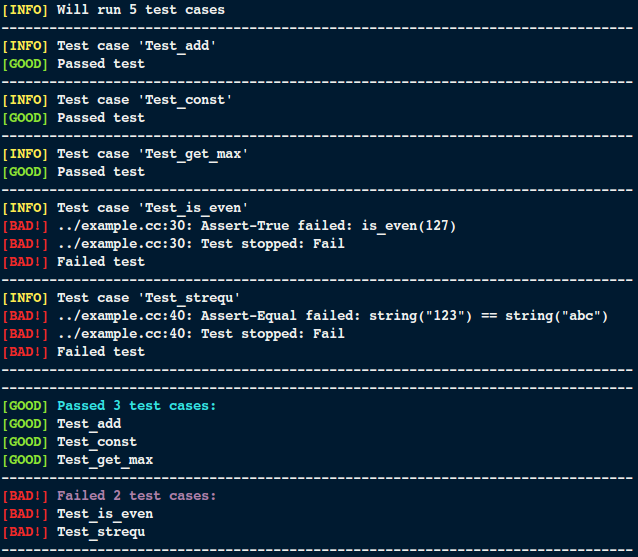
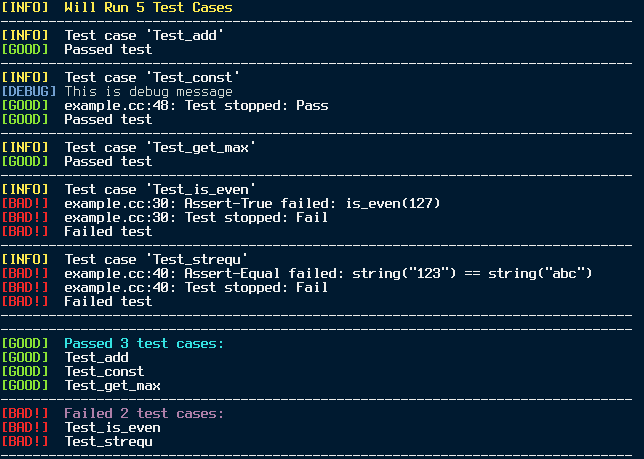
col

Changed region(s): [[0.0, 0.0, 1.0, 1.0]]

diff --git a/mut.h b/mut.h
@@ -12,6 +12,8 @@
 // Linux terminator color code
 #ifndef MUT_COLOR_CODE
 #define MUT_COLOR_CODE
+#define MUT_COLOR_DEBUG  "\033[01;34m"
+#define MUT_COLOR_GRAY0  "\033[00;37m"
 #define MUT_COLOR_GRAY   "\033[01;37m"
 #define MUT_COLOR_GREEN  "\033[01;32m"
 #define MUT_COLOR_RED    "\033[01;31m"
@@ -22,20 +24,25 @@
 
 // Macro for writing to the terminal an INFO-level log
 #ifndef MUT_INFO
-#define MUT_INFO        std::cerr << MUT_COLOR_YELLOW << "[INFO] " << MUT_COLOR_GRAY
+#define MUT_INFO        std::cerr << MUT_COLOR_YELLOW << "[INFO]  " << MUT_COLOR_GRAY
 #define MUT_LOG_INFO    MUT_INFO << __FILE__ << ":" << __LINE__ << ": "
 #endif
 
 // Macro for writing to the terminal a BAD-level log
 #ifndef MUT_BAD
-#define MUT_BAD         std::cerr << MUT_COLOR_RED << "[BAD!] " << MUT_COLOR_GRAY
+#define MUT_BAD         std::cerr << MUT_COLOR_RED << "[BAD!]  " << MUT_COLOR_GRAY
 #define MUT_LOG_BAD     MUT_BAD << __FILE__ << ":" << __LINE__ << ": "
 #endif
 
 // Macro for writing to the terminal a GOOD-level log
 #ifndef MUT_GOOD
-#define MUT_GOOD        std::cerr << MUT_COLOR_GREEN << "[GOOD] " << MUT_COLOR_GRAY
+#define MUT_GOOD        std::cerr << MUT_COLOR_GREEN << "[GOOD]  " << MUT_COLOR_GRAY
 #define MUT_LOG_GOOD    MUT_GOOD << __FILE__ << ":" << __LINE__ << ": "
+#endif
+
+// Macro for writing to the terminal an DEBUG info from tested program
+#ifndef MUT_DEBUG
+#define MUT_DEBUG       std::cerr << MUT_COLOR_DEBUG << "[DEBUG] " << MUT_COLOR_GRAY0
 #endif
 
 #ifndef MUT_LOG_SEP
@@ -73,10 +80,12 @@ public:
     // Run all the registered unit test cases, returns True if all tests pass, false otherwise.
     static bool run()
     {
-        std::vector<std::string> failures, sucesses;
-        MUT_INFO << "Will run " << instance().unit_functions.size() << " test cases" << std::endl;
+        MUT_INFO << MUT_COLOR_YELLOW
+                 << "Will Run " << instance().unit_functions.size() << " Test Cases"
+                 << MUT_COLOR_GRAY << std::endl;
 
-        // Iterate all registered unit tests
+        std::vector<std::string> failures, sucesses;
+        // Starts unit tests
         for (auto& unit : instance().unit_functions) {
             MUT_LOG_SEP;
             MUT_INFO << "Test case '" << unit.first << "'" << std::endl;
@@ -105,7 +114,7 @@ public:
 
         // Output result summary
         if (failures.empty()) {
-            MUT_GOOD << "All tests passed" << std::endl;
+            MUT_GOOD << MUT_COLOR_YELLOW << "All tests passed!" << MUT_COLOR_GRAY << std::endl;
             MUT_LOG_SEP;
             return true;
         }
@@ -226,7 +235,6 @@ protected:
 
 
 #endif  // end MUT_USER_MACROS
-
 
 
 

diff --git a/example.cc b/example.cc
@@ -42,6 +42,7 @@ MICRO_UNIT(Test_strequ)
 
 MICRO_UNIT(Test_const)
 {
+    MUT_DEBUG << "This is debug message" << std::endl;
     ASSERT_FALSE((1024 << 2) == 2048)
     if (float(1.0000000001f) == float(1.0f)) {
         MUT_PASS()

diff --git a/README.md b/README.md
@@ -61,6 +61,7 @@ MICRO_UNIT(Test_strequ)
 
 MICRO_UNIT(Test_const)
 {
+    MUT_DEBUG << "This is debug message" << std::endl;
     ASSERT_FALSE((1024 << 2) == 2048)
     if (float(1.0000000001f) == float(1.0f)) {
         MUT_PASS()
